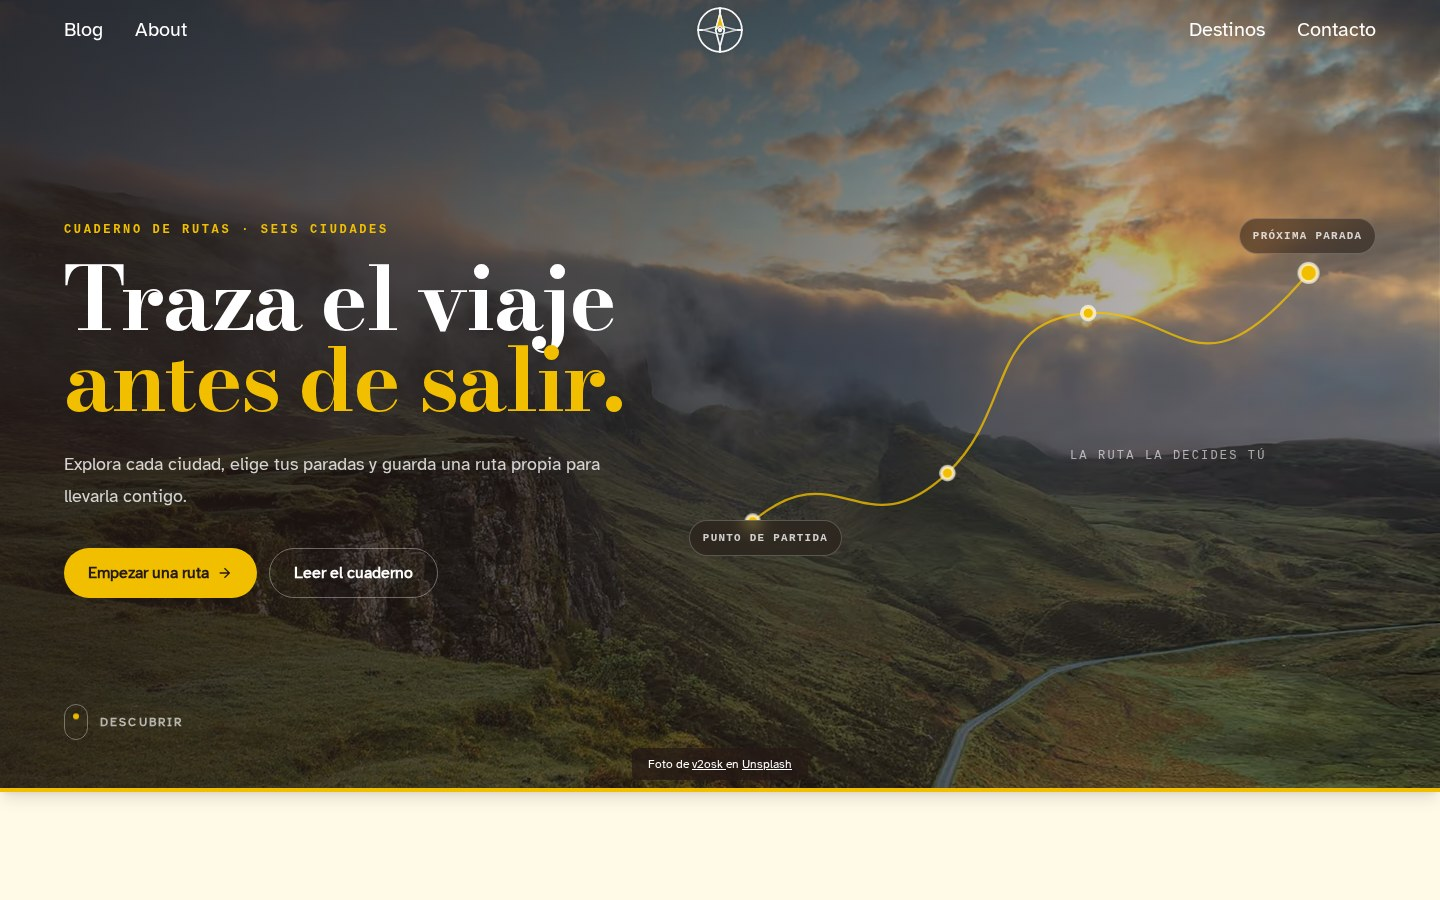
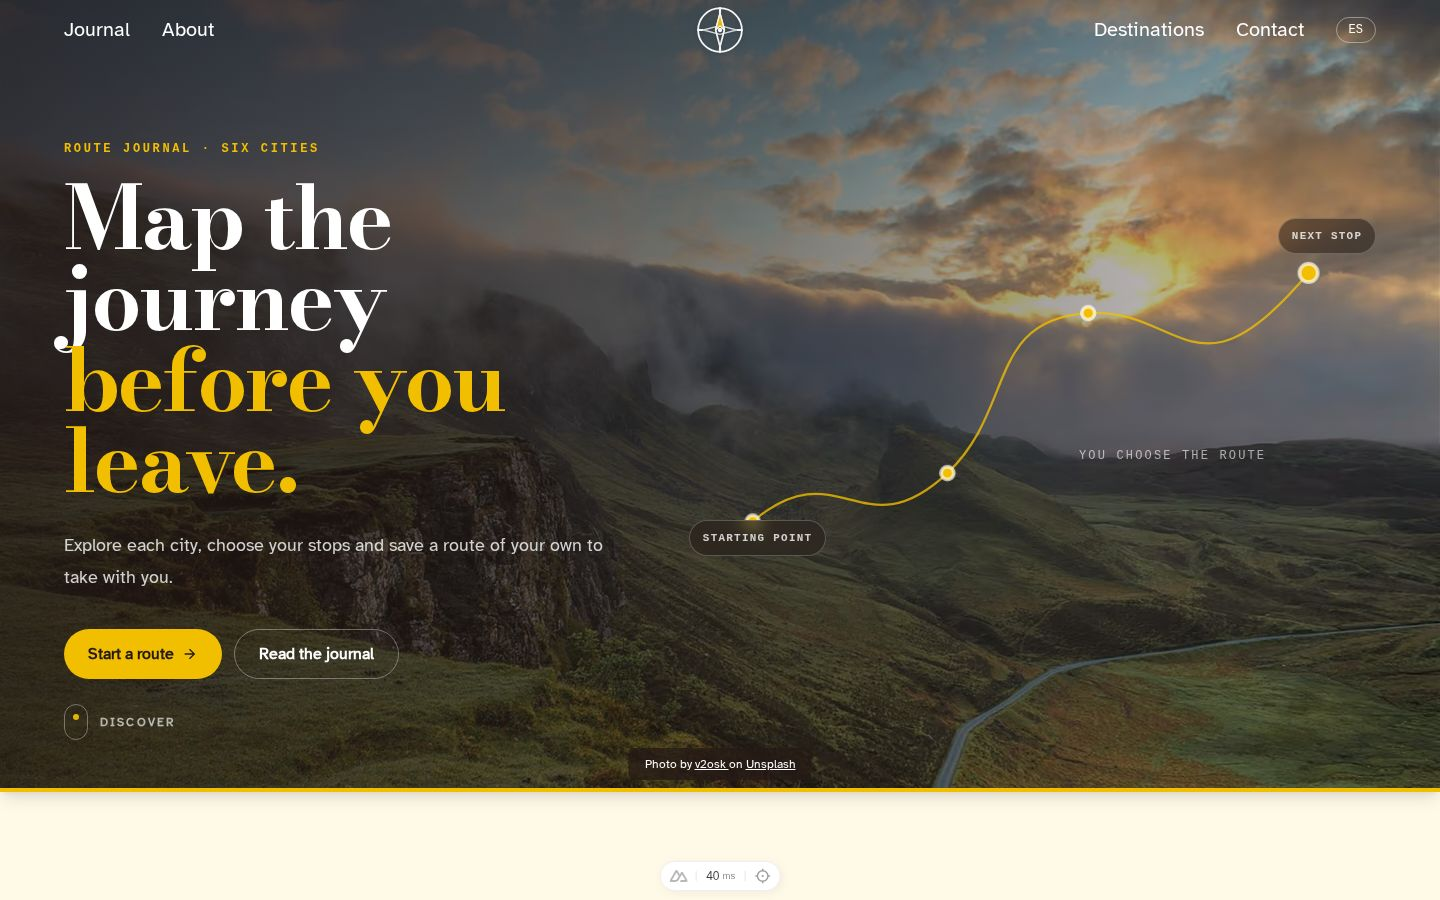
docs: add localized readme previews

diff --git a/README.es.md b/README.es.md
@@ -10,7 +10,7 @@ en un itinerario práctico, persistente y compartible.
 [Ver demo](https://kevin0018.github.io/Blog-de-Viajes/) ·
 [Explorar destinos](https://kevin0018.github.io/Blog-de-Viajes/destinations)
 
-[![Vista previa de Blog de Viajes](./docs/blog-de-viajes-preview.jpg)](https://kevin0018.github.io/Blog-de-Viajes/)
+[![Vista previa de Blog de Viajes](./docs/blog-de-viajes-preview-es.jpg)](https://kevin0018.github.io/Blog-de-Viajes/)
 
 ## Funcionalidades destacadas
 
